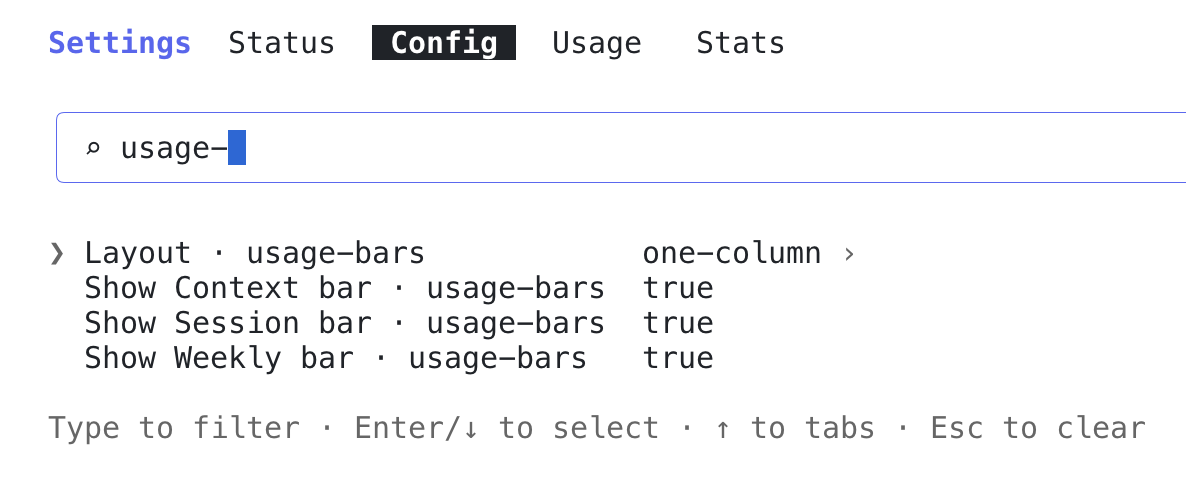
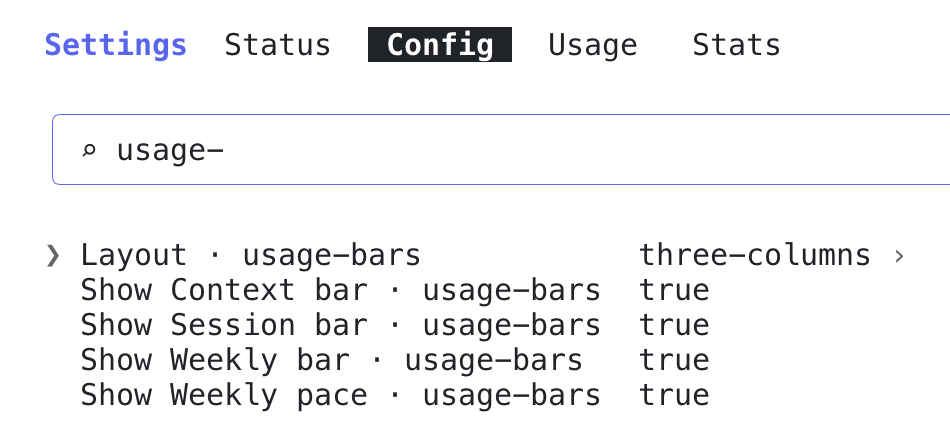
docs: show the weekly pace option and the bar it draws

diff --git a/README.md b/README.md
@@ -51,6 +51,9 @@ Set them when you install, or later in `/config`: type `usage-bars` to filter th
 - The layout sets the most columns. A terminal too narrow for them gets fewer: three columns need about 100, two need about 67.
 - Hidden bars leave no gap. With Context hidden, two columns put Session and Weekly side by side, and three columns with one bar hidden draw two.
 - Weekly pace adds a grey stretch to the Weekly bar: how far it can fill today if what was left at the start of the day is spread evenly over the days left. Use 5% on the first day and the second day's budget is 95% / 6. Going past it changes nothing but the picture.
+
+  ![The Weekly bar with today's pace in grey](docs/weekly-pace-view.png)
+
 - A gateway's Spend bar has no toggle. It follows the limits, on the next row in three columns.
 
 ## Notes
